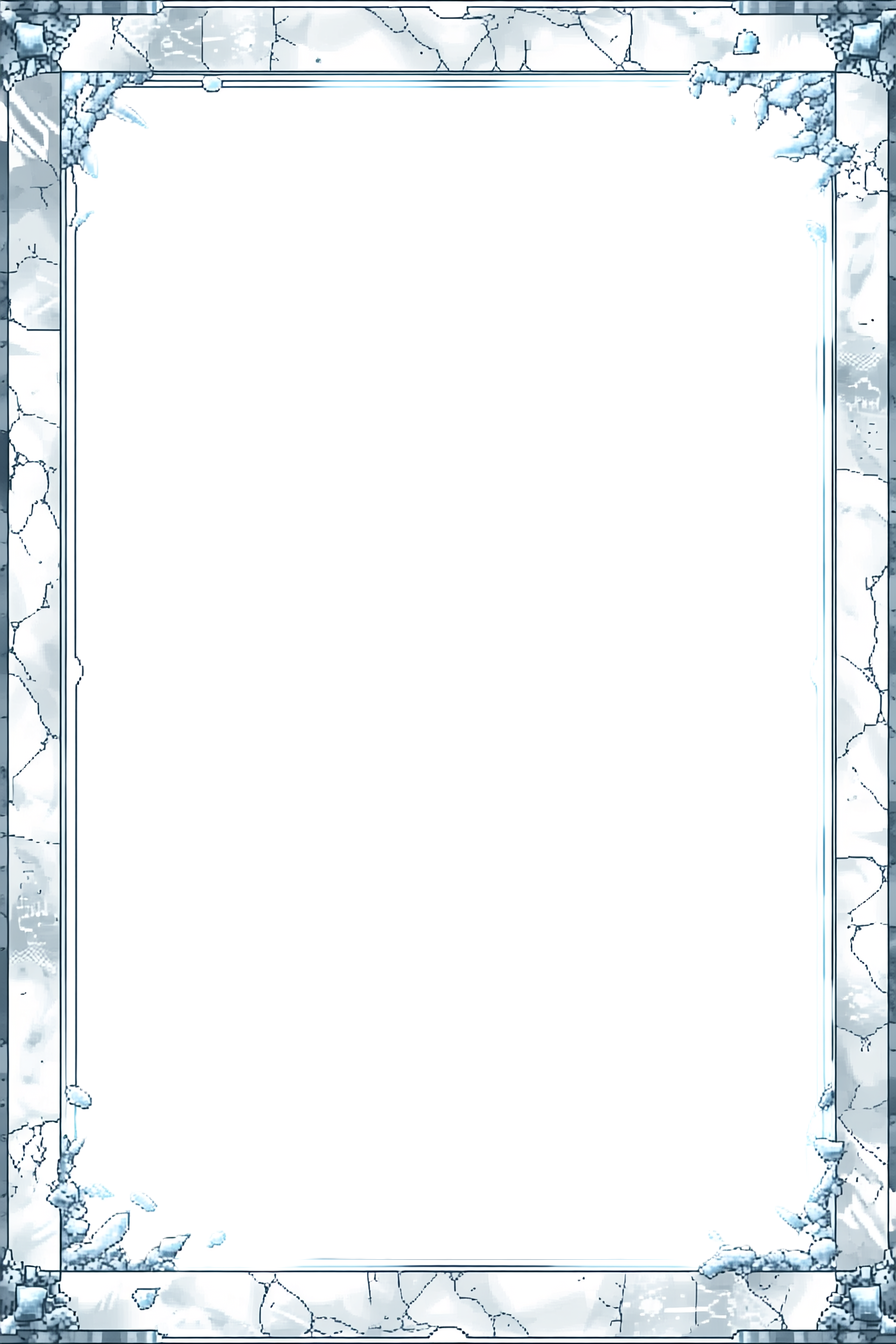
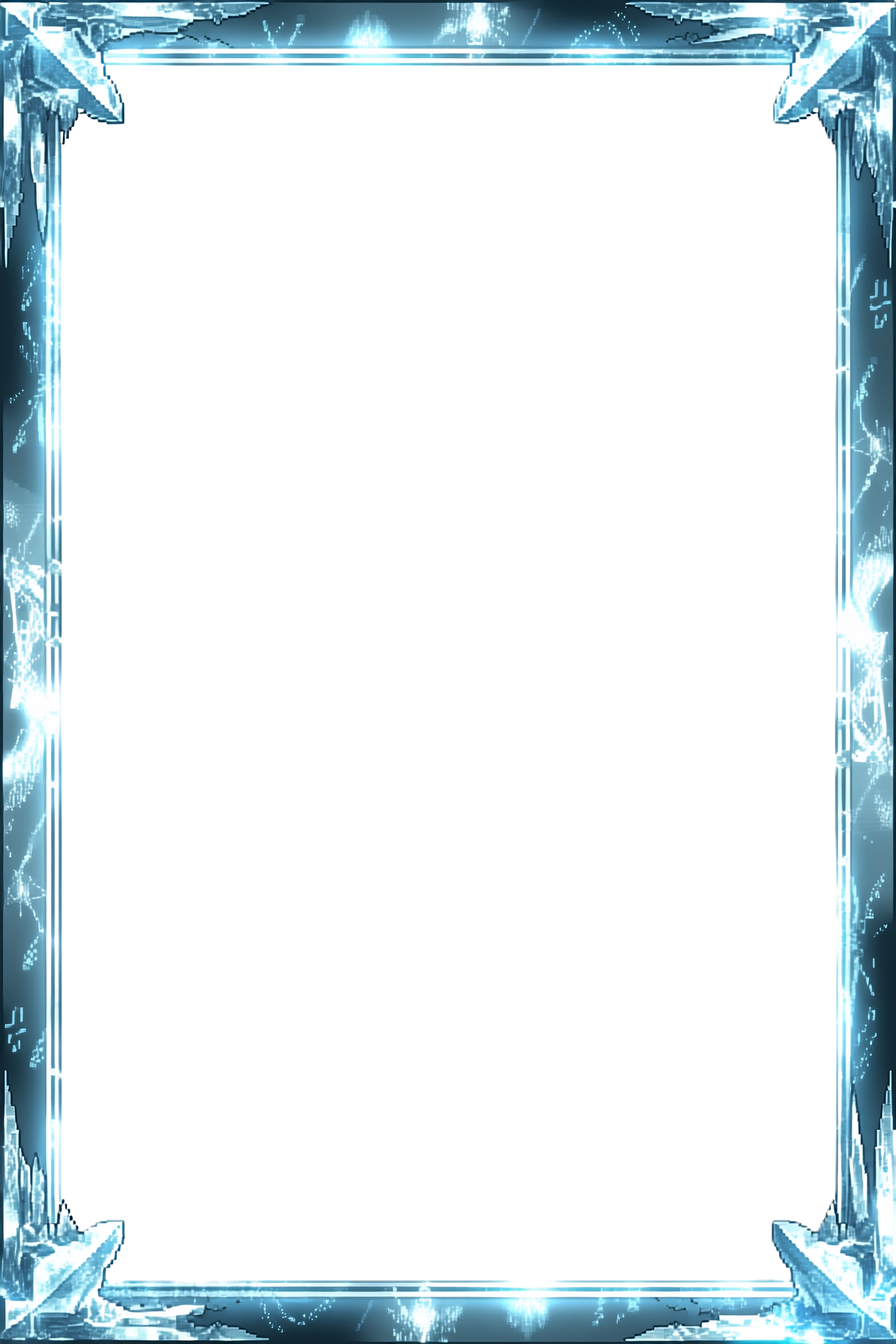
go

Changed region(s): [[0.0, 0.0, 1.0, 1.0]]

diff --git a/src/utils/calculatedClassDescription.jsx b/src/utils/calculatedClassDescription.jsx
@@ -269,6 +269,7 @@ export function getCalculatedSubclassDescription(className, subclassId, stats) {
   const cap = safe(stats, 'cap');
   const auto = safe(stats, 'auto');
   const def = safe(stats, 'def');
+  const rescap = safe(stats, 'rescap');
   const Tooltip = SharedTooltip;
   const c = getSubclassCapacityConstants(className, subclassId);
 
@@ -665,6 +666,58 @@ export function getCalculatedSubclassDescription(className, subclassId, stats) {
           <Tooltip content="Vole 8% d'une stat aléatoire de l'ennemi (Auto/Déf/Cap/ResC/Vit) à chaque esquive.">
             <span className="text-purple-400 underline decoration-dotted cursor-help">Vol de stat</span>
           </Tooltip>.
+        </>
+      );
+    }
+
+    case 'maitre_alchimiste':
+    case 'alchimiste_metal': {
+      const cycleLen = c.cycleLength ?? 3;
+      const fireBonus = Math.round((c.fireCapScale ?? 0) * cap);
+      const fireTotal = auto + fireBonus;
+      const lifeBonus = Math.round((c.lifeCapScale ?? 0) * cap);
+      const lifeTotal = auto + lifeBonus;
+      const acidDmg = dmgCap(auto, rescap);
+      const defRedPct = Math.round((c.acidDefReduction ?? 0) * 100);
+      const resRedPct = Math.round((c.acidRescReduction ?? 0) * 100);
+
+      const hasMetal = cycleLen >= 4;
+      const stunDur = c.metalStunDuration ?? classConstants.alchimiste.metalStunDuration;
+      const metalDmg = dmgCap(auto, rescap);
+
+      return (
+        <>
+          Cycle complet (1 flasque par tour, en boucle) :
+          <br />
+          <span className="text-stone-300">Feu → Vie → Acide{hasMetal ? ' → Métal' : ''} → …</span>
+          <br />
+          Feu :{' '}
+          <Tooltip content={`Auto (${auto}) + ${(c.fireCapScale ?? 0) * 100}% × Cap (${cap}) = ${fireBonus}`}>
+            <span className="text-green-400">{fireTotal}</span>
+          </Tooltip>
+          {' '}dégâts (vs ResC)
+          <br />
+          Vie :{' '}
+          <Tooltip content={`Auto (${auto}) + ${(c.lifeCapScale ?? 0) * 100}% × Cap (${cap}) = ${lifeBonus}`}>
+            <span className="text-green-400">{lifeTotal}</span>
+          </Tooltip>
+          {' '}soins
+          <br />
+          Acide : inflige{' '}
+          <Tooltip content={`Auto (${auto}) vs ResC (${rescap}) = ${acidDmg}`}>
+            <span className="text-green-400">{acidDmg}</span>
+          </Tooltip>
+          {' '}dégâts (vs ResC), réduit DEF de <span className="text-green-400">{defRedPct}%</span> et ResC de <span className="text-green-400">{resRedPct}%</span>
+          {hasMetal ? (
+            <>
+              <br />
+              Métal : inflige{' '}
+              <Tooltip content={`Auto (${auto}) vs ResC (${rescap}) = ${metalDmg}`}>
+                <span className="text-green-400">{metalDmg}</span>
+              </Tooltip>
+              {' '}dégâts (vs ResC) et étourdit <span className="text-green-400">{stunDur}</span> tour
+            </>
+          ) : null}
         </>
       );
     }

diff --git a/src/data/subclasses.js b/src/data/subclasses.js
@@ -52,8 +52,8 @@ export const SUBCLASSES_BY_CLASS = {
     { id: 'latum', name: 'Latum', bonus: '+8% Auto', abilityLabel: 'Soin puissant (CD: 4 tours)', description: 'Inflige 15% des PV manquants en dégâts à l\'ennemi (réduits par la ResC), puis soigne 25% des PV manquants + 40% Cap.' },
   ],
   'Alchimiste': [
-    { id: 'maitre_alchimiste', name: 'Maître Alchimiste', bonus: '+10% CAP', abilityLabel: 'Cycle de flasques (Passif)', description: 'Cycle de 3 flasques (vs ResC) :\n- Feu : Auto + 30% CAP\n- Vie : régénère Auto + 30% CAP\n- Acide : Auto et réduit DEF/ResC de 25%' },
-    { id: 'alchimiste_metal', name: 'Alchimiste de Métal', bonus: '+10% Auto', abilityLabel: 'Cycle de flasques (Passif)', description: 'Cycle de 4 flasques (vs ResC) :\n- Feu : Auto + 10% CAP\n- Vie : régénère Auto + 10% CAP\n- Acide : Auto et réduit DEF/ResC de 10%\n- Métal : Auto et stun 1 tour' },
+    { id: 'maitre_alchimiste', name: 'Maître Alchimiste', bonus: '+10% CAP', abilityLabel: 'Cycle de flasques (Passif)', description: 'Cycle complet (1 flasque par tour, en boucle) : Feu → Vie → Acide → Feu…\n- Feu : Auto + 30% CAP (vs ResC)\n- Vie : régénère Auto + 30% CAP\n- Acide : Auto (vs ResC) et réduit DEF/ResC de 25%' },
+    { id: 'alchimiste_metal', name: 'Alchimiste de Métal', bonus: '+10% Auto', abilityLabel: 'Cycle de flasques (Passif)', description: 'Cycle complet (1 flasque par tour, en boucle) : Feu → Vie → Acide → Métal → Feu…\n- Feu : Auto + 10% CAP (vs ResC)\n- Vie : régénère Auto + 10% CAP\n- Acide : Auto (vs ResC) et réduit DEF/ResC de 10%\n- Métal : Auto (vs ResC) et étourdit 1 tour' },
   ],
 };
 

diff --git a/src/utils/descriptionBuilders.js b/src/utils/descriptionBuilders.js
@@ -180,6 +180,15 @@ export const buildSubclassDescription = (className, subclassId, constants = null
       return `Soigne ${pct0(c.missingHpPercent)} des PV manquants + ${pct0(c.capScale)} Cap. À chaque lancement : gain d'un bouclier égal à ${pct0(c.capShieldPercent)} de votre CAP. Convertit l'overheal en bouclier.`;
     case 'latum':
       return `Inflige ${pct0(c.missingHpDamagePercent)} des PV manquants en dégâts à l'ennemi (réduits par la ResC), puis soigne ${pct0(c.missingHpPercent)} des PV manquants + ${pct0(c.capScale)} Cap.`;
+
+    case 'maitre_alchimiste': {
+      return `Cycle complet (1 flasque par tour, en boucle) : Feu → Vie → Acide → Feu…\n- Feu : Auto + ${pct0(c.fireCapScale)} CAP (vs ResC)\n- Vie : régénère Auto + ${pct0(c.lifeCapScale)} CAP\n- Acide : Auto (vs ResC) et réduit DEF de ${pct0(c.acidDefReduction)} / ResC de ${pct0(c.acidRescReduction)}`;
+    }
+
+    case 'alchimiste_metal': {
+      const stun = c.metalStunDuration ?? classConstants.alchimiste.metalStunDuration;
+      return `Cycle complet (1 flasque par tour, en boucle) : Feu → Vie → Acide → Métal → Feu…\n- Feu : Auto + ${pct0(c.fireCapScale)} CAP (vs ResC)\n- Vie : régénère Auto + ${pct0(c.lifeCapScale)} CAP\n- Acide : Auto (vs ResC) et réduit DEF de ${pct0(c.acidDefReduction)} / ResC de ${pct0(c.acidRescReduction)}\n- Métal : Auto (vs ResC) et étourdit ${stun} tour`;
+    }
     default:
       return '';
   }
